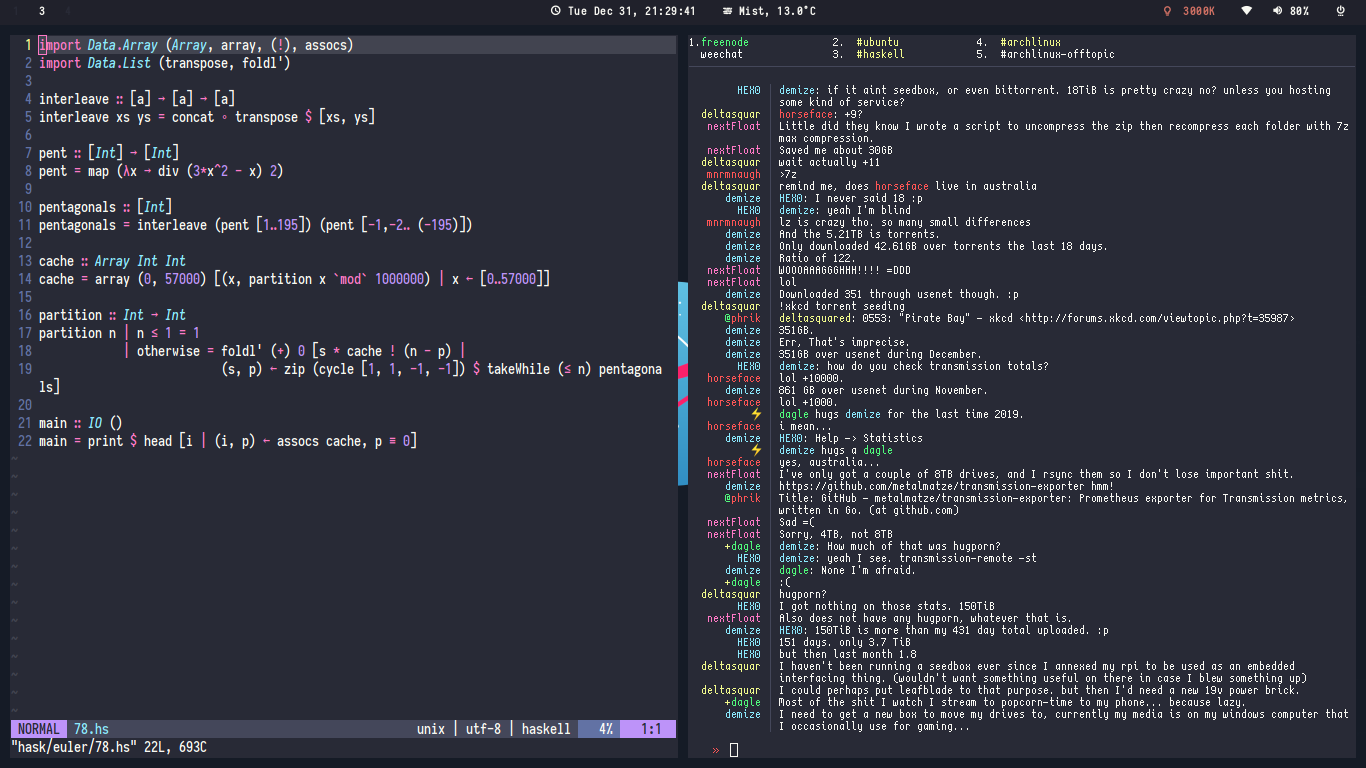
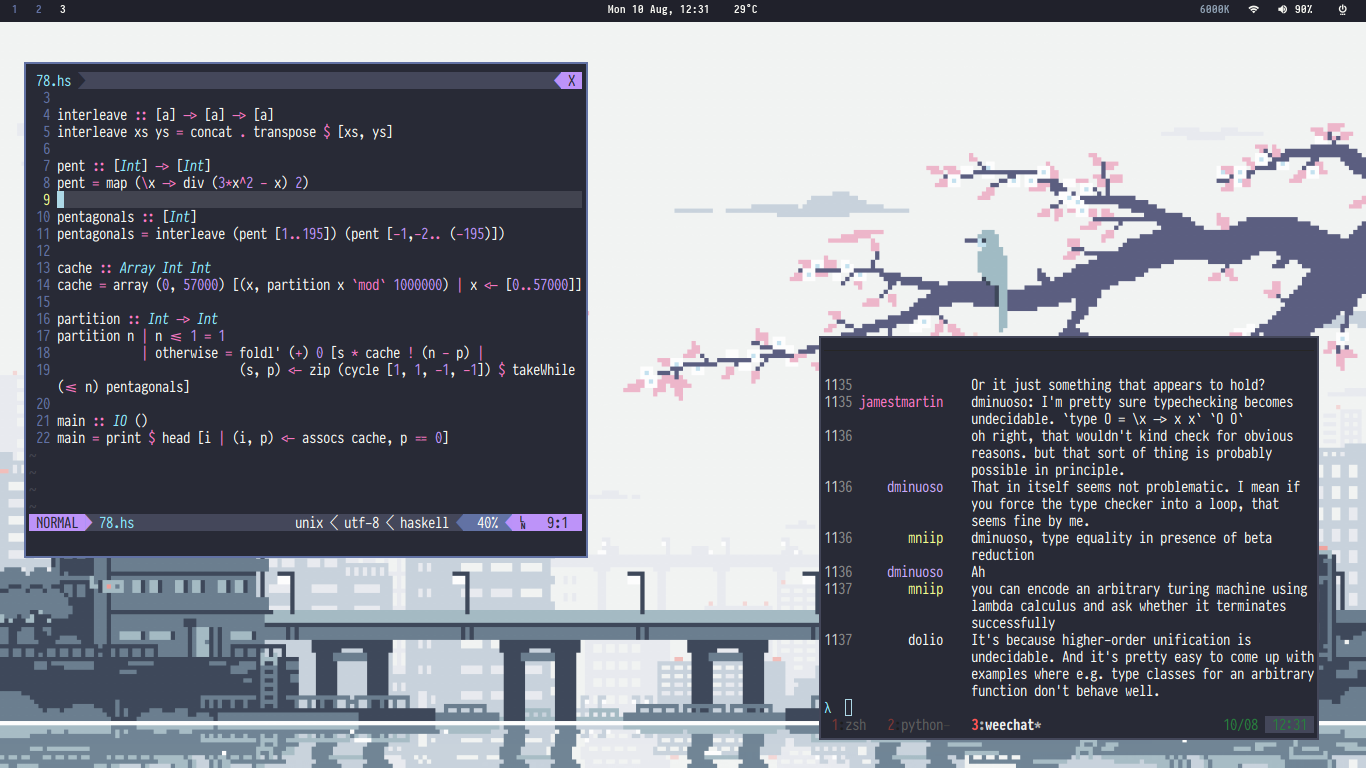
updated screens, added new wall

diff --git a/README.md b/README.md
@@ -1,15 +1,15 @@
 # dotfiles
 
 These dotfiles are managed by GNU Stow and contain my configurations for:
-[i3-gaps](https://github.com/Airblader/i3), [vim](https://www.vim.org/), [oh-my-zsh](https://github.com/ohmyzsh/ohmyzsh), [polybar](https://github.com/polybar/polybar), [rofi](https://github.com/davatorium/rofi), [zathura](https://pwmt.org/projects/zathura/), [terminator](https://wiki.archlinux.org/index.php/Terminator), [ranger](https://github.com/ranger/ranger), [weechat](https://weechat.org/), [dunst](https://github.com/dunst-project/dunst), [compton](https://github.com/chjj/compton), and more.
+[i3-gaps](https://github.com/Airblader/i3), [vim](https://www.vim.org/), [oh-my-zsh](https://github.com/ohmyzsh/ohmyzsh), [polybar](https://github.com/polybar/polybar), [rofi](https://github.com/davatorium/rofi), [zathura](https://pwmt.org/projects/zathura/), [ranger](https://github.com/ranger/ranger), [weechat](https://weechat.org/), [dunst](https://github.com/dunst-project/dunst), [compton](https://github.com/chjj/compton), and more.
 
 
 Because I forget how to use GNU Stow every time I need to use it again, I am placing [this](https://alexpearce.me/2016/02/managing-dotfiles-with-stow/) for my future self.
 
 Most of the due credit goes to the people from whom I copied from and modified the dotfiles for my own use.
+
 ## Screenshots (may be out-of-date)
 
-### Fake busy
 ![](screen.png)
 
 ### LaTeX workflow
